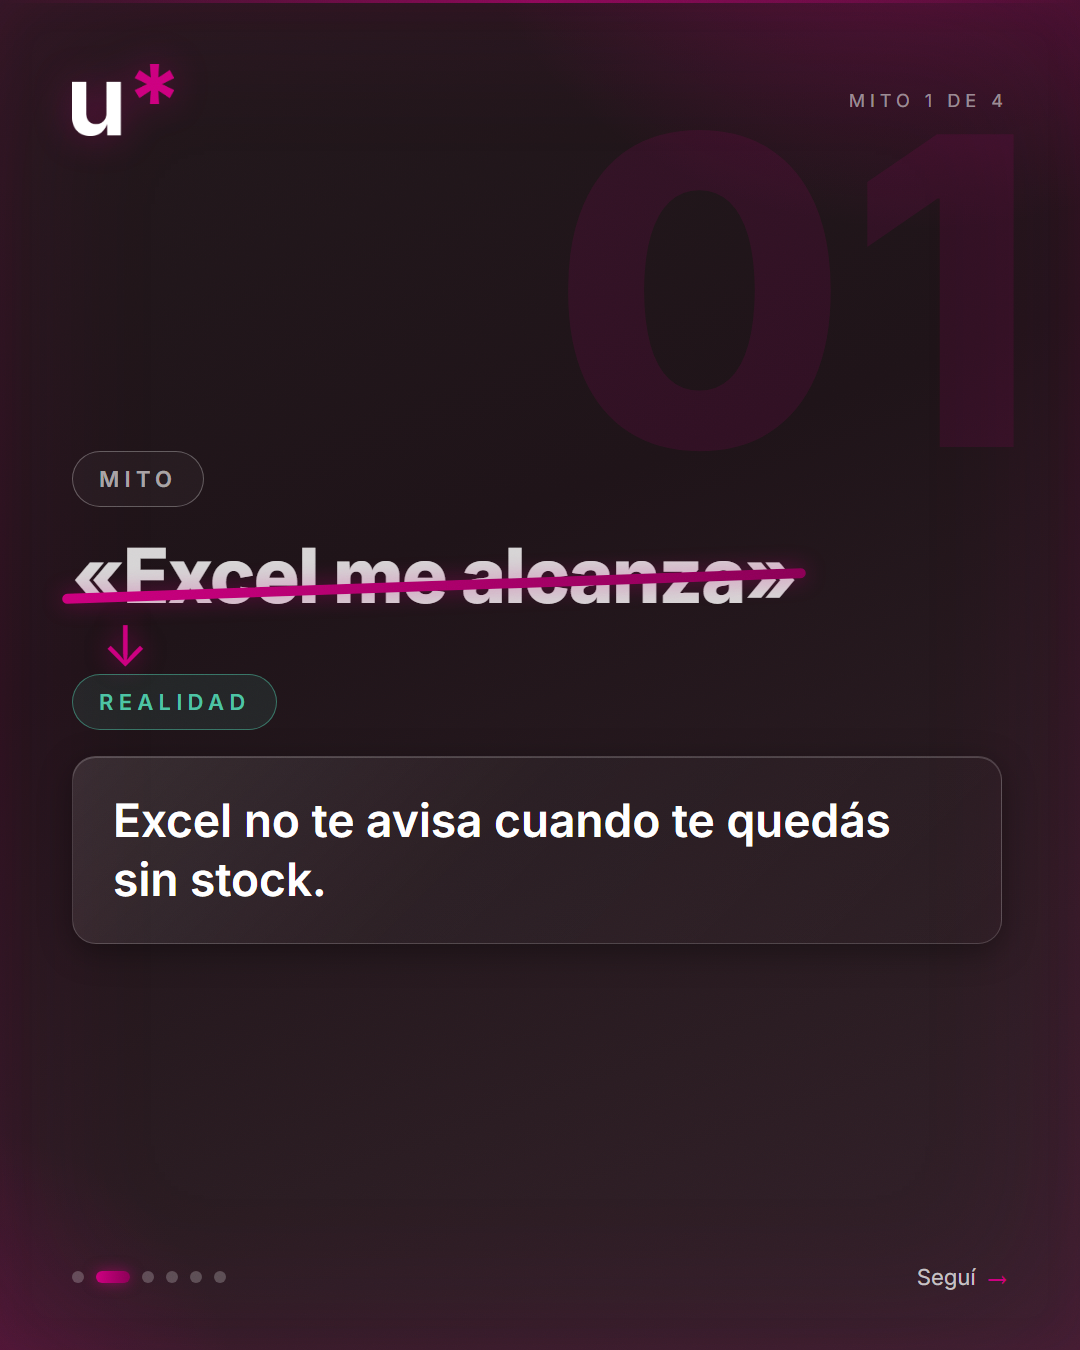
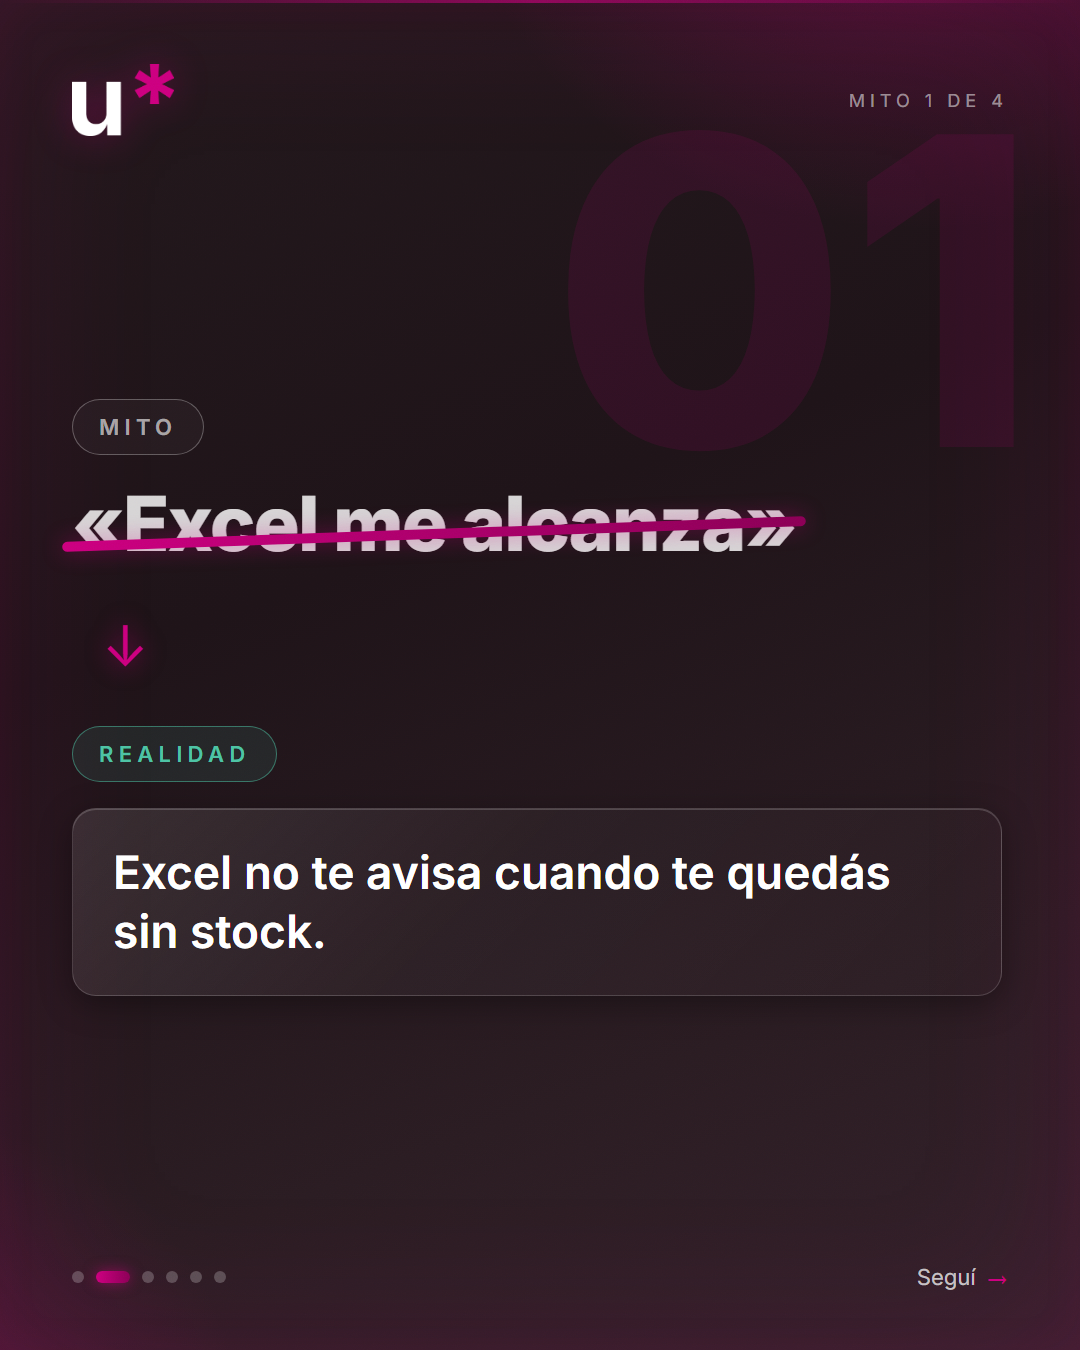
fix(brand): espaciado vertical del layout myth (gap 52px) entre chips, pills y textos

Changed region(s): [[0.0611, 0.4978, 0.825, 0.7156], [0.0611, 0.3111, 0.7639, 0.4667]]

diff --git a/brand.js b/brand.js
@@ -26,6 +26,7 @@ header{display:flex;justify-content:space-between;align-items:center}
 .logo{height:72px;width:auto;display:block;filter:drop-shadow(0 0 18px rgba(204,0,126,0.35))}
 .tag{font-size:18px;letter-spacing:.28em;text-transform:uppercase;color:rgba(255,255,255,.5)}
 main{flex:1;display:flex;flex-direction:column;justify-content:center;position:relative}
+.myth{gap:52px}
 footer{display:flex;justify-content:space-between;align-items:center}
 .pips{display:flex;gap:12px;align-items:center}
 .pip{width:12px;height:12px;border-radius:999px;background:rgba(255,255,255,.22)}

diff --git a/post4/src/slide-01-portada.html b/post4/src/slide-01-portada.html
@@ -25,6 +25,7 @@ header{display:flex;justify-content:space-between;align-items:center}
 .logo{height:72px;width:auto;display:block;filter:drop-shadow(0 0 18px rgba(204,0,126,0.35))}
 .tag{font-size:18px;letter-spacing:.28em;text-transform:uppercase;color:rgba(255,255,255,.5)}
 main{flex:1;display:flex;flex-direction:column;justify-content:center;position:relative}
+.myth{gap:52px}
 footer{display:flex;justify-content:space-between;align-items:center}
 .pips{display:flex;gap:12px;align-items:center}
 .pip{width:12px;height:12px;border-radius:999px;background:rgba(255,255,255,.22)}

diff --git a/post4/src/slide-02-problema.html b/post4/src/slide-02-problema.html
@@ -25,6 +25,7 @@ header{display:flex;justify-content:space-between;align-items:center}
 .logo{height:72px;width:auto;display:block;filter:drop-shadow(0 0 18px rgba(204,0,126,0.35))}
 .tag{font-size:18px;letter-spacing:.28em;text-transform:uppercase;color:rgba(255,255,255,.5)}
 main{flex:1;display:flex;flex-direction:column;justify-content:center;position:relative}
+.myth{gap:52px}
 footer{display:flex;justify-content:space-between;align-items:center}
 .pips{display:flex;gap:12px;align-items:center}
 .pip{width:12px;height:12px;border-radius:999px;background:rgba(255,255,255,.22)}

diff --git a/post4/src/slide-03-solucion.html b/post4/src/slide-03-solucion.html
@@ -25,6 +25,7 @@ header{display:flex;justify-content:space-between;align-items:center}
 .logo{height:72px;width:auto;display:block;filter:drop-shadow(0 0 18px rgba(204,0,126,0.35))}
 .tag{font-size:18px;letter-spacing:.28em;text-transform:uppercase;color:rgba(255,255,255,.5)}
 main{flex:1;display:flex;flex-direction:column;justify-content:center;position:relative}
+.myth{gap:52px}
 footer{display:flex;justify-content:space-between;align-items:center}
 .pips{display:flex;gap:12px;align-items:center}
 .pip{width:12px;height:12px;border-radius:999px;background:rgba(255,255,255,.22)}

diff --git a/post4/src/slide-04-pantalla.html b/post4/src/slide-04-pantalla.html
@@ -25,6 +25,7 @@ header{display:flex;justify-content:space-between;align-items:center}
 .logo{height:72px;width:auto;display:block;filter:drop-shadow(0 0 18px rgba(204,0,126,0.35))}
 .tag{font-size:18px;letter-spacing:.28em;text-transform:uppercase;color:rgba(255,255,255,.5)}
 main{flex:1;display:flex;flex-direction:column;justify-content:center;position:relative}
+.myth{gap:52px}
 footer{display:flex;justify-content:space-between;align-items:center}
 .pips{display:flex;gap:12px;align-items:center}
 .pip{width:12px;height:12px;border-radius:999px;background:rgba(255,255,255,.22)}

diff --git a/post4/src/slide-05-ejemplo.html b/post4/src/slide-05-ejemplo.html
@@ -25,6 +25,7 @@ header{display:flex;justify-content:space-between;align-items:center}
 .logo{height:72px;width:auto;display:block;filter:drop-shadow(0 0 18px rgba(204,0,126,0.35))}
 .tag{font-size:18px;letter-spacing:.28em;text-transform:uppercase;color:rgba(255,255,255,.5)}
 main{flex:1;display:flex;flex-direction:column;justify-content:center;position:relative}
+.myth{gap:52px}
 footer{display:flex;justify-content:space-between;align-items:center}
 .pips{display:flex;gap:12px;align-items:center}
 .pip{width:12px;height:12px;border-radius:999px;background:rgba(255,255,255,.22)}

diff --git a/post4/src/slide-06-cierre.html b/post4/src/slide-06-cierre.html
@@ -25,6 +25,7 @@ header{display:flex;justify-content:space-between;align-items:center}
 .logo{height:72px;width:auto;display:block;filter:drop-shadow(0 0 18px rgba(204,0,126,0.35))}
 .tag{font-size:18px;letter-spacing:.28em;text-transform:uppercase;color:rgba(255,255,255,.5)}
 main{flex:1;display:flex;flex-direction:column;justify-content:center;position:relative}
+.myth{gap:52px}
 footer{display:flex;justify-content:space-between;align-items:center}
 .pips{display:flex;gap:12px;align-items:center}
 .pip{width:12px;height:12px;border-radius:999px;background:rgba(255,255,255,.22)}

diff --git a/src/slide-01-portada.html b/src/slide-01-portada.html
@@ -25,6 +25,7 @@ header{display:flex;justify-content:space-between;align-items:center}
 .logo{height:72px;width:auto;display:block;filter:drop-shadow(0 0 18px rgba(204,0,126,0.35))}
 .tag{font-size:18px;letter-spacing:.28em;text-transform:uppercase;color:rgba(255,255,255,.5)}
 main{flex:1;display:flex;flex-direction:column;justify-content:center;position:relative}
+.myth{gap:52px}
 footer{display:flex;justify-content:space-between;align-items:center}
 .pips{display:flex;gap:12px;align-items:center}
 .pip{width:12px;height:12px;border-radius:999px;background:rgba(255,255,255,.22)}

diff --git a/src/slide-02-mito-1.html b/src/slide-02-mito-1.html
@@ -25,6 +25,7 @@ header{display:flex;justify-content:space-between;align-items:center}
 .logo{height:72px;width:auto;display:block;filter:drop-shadow(0 0 18px rgba(204,0,126,0.35))}
 .tag{font-size:18px;letter-spacing:.28em;text-transform:uppercase;color:rgba(255,255,255,.5)}
 main{flex:1;display:flex;flex-direction:column;justify-content:center;position:relative}
+.myth{gap:52px}
 footer{display:flex;justify-content:space-between;align-items:center}
 .pips{display:flex;gap:12px;align-items:center}
 .pip{width:12px;height:12px;border-radius:999px;background:rgba(255,255,255,.22)}

diff --git a/src/slide-03-mito-2.html b/src/slide-03-mito-2.html
@@ -25,6 +25,7 @@ header{display:flex;justify-content:space-between;align-items:center}
 .logo{height:72px;width:auto;display:block;filter:drop-shadow(0 0 18px rgba(204,0,126,0.35))}
 .tag{font-size:18px;letter-spacing:.28em;text-transform:uppercase;color:rgba(255,255,255,.5)}
 main{flex:1;display:flex;flex-direction:column;justify-content:center;position:relative}
+.myth{gap:52px}
 footer{display:flex;justify-content:space-between;align-items:center}
 .pips{display:flex;gap:12px;align-items:center}
 .pip{width:12px;height:12px;border-radius:999px;background:rgba(255,255,255,.22)}

diff --git a/src/slide-04-mito-3.html b/src/slide-04-mito-3.html
@@ -25,6 +25,7 @@ header{display:flex;justify-content:space-between;align-items:center}
 .logo{height:72px;width:auto;display:block;filter:drop-shadow(0 0 18px rgba(204,0,126,0.35))}
 .tag{font-size:18px;letter-spacing:.28em;text-transform:uppercase;color:rgba(255,255,255,.5)}
 main{flex:1;display:flex;flex-direction:column;justify-content:center;position:relative}
+.myth{gap:52px}
 footer{display:flex;justify-content:space-between;align-items:center}
 .pips{display:flex;gap:12px;align-items:center}
 .pip{width:12px;height:12px;border-radius:999px;background:rgba(255,255,255,.22)}

diff --git a/src/slide-05-mito-4.html b/src/slide-05-mito-4.html
@@ -25,6 +25,7 @@ header{display:flex;justify-content:space-between;align-items:center}
 .logo{height:72px;width:auto;display:block;filter:drop-shadow(0 0 18px rgba(204,0,126,0.35))}
 .tag{font-size:18px;letter-spacing:.28em;text-transform:uppercase;color:rgba(255,255,255,.5)}
 main{flex:1;display:flex;flex-direction:column;justify-content:center;position:relative}
+.myth{gap:52px}
 footer{display:flex;justify-content:space-between;align-items:center}
 .pips{display:flex;gap:12px;align-items:center}
 .pip{width:12px;height:12px;border-radius:999px;background:rgba(255,255,255,.22)}
